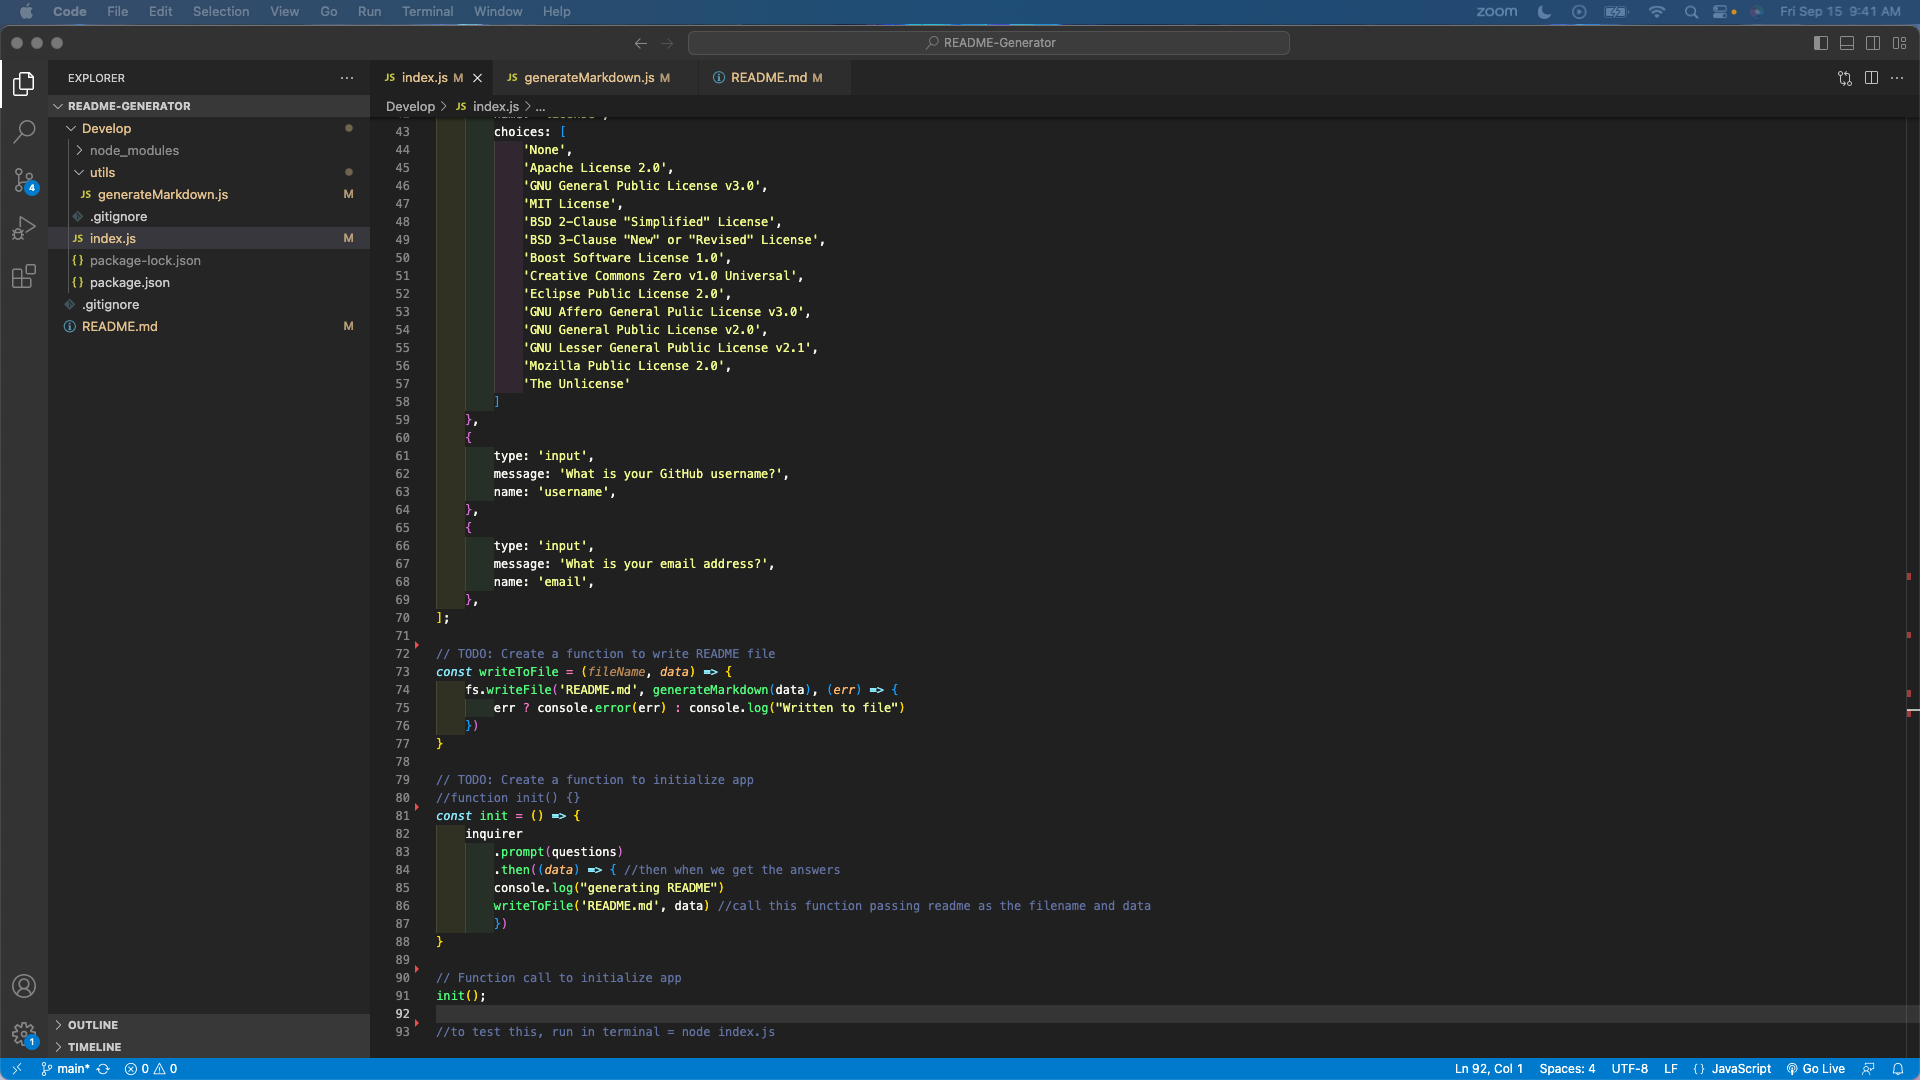
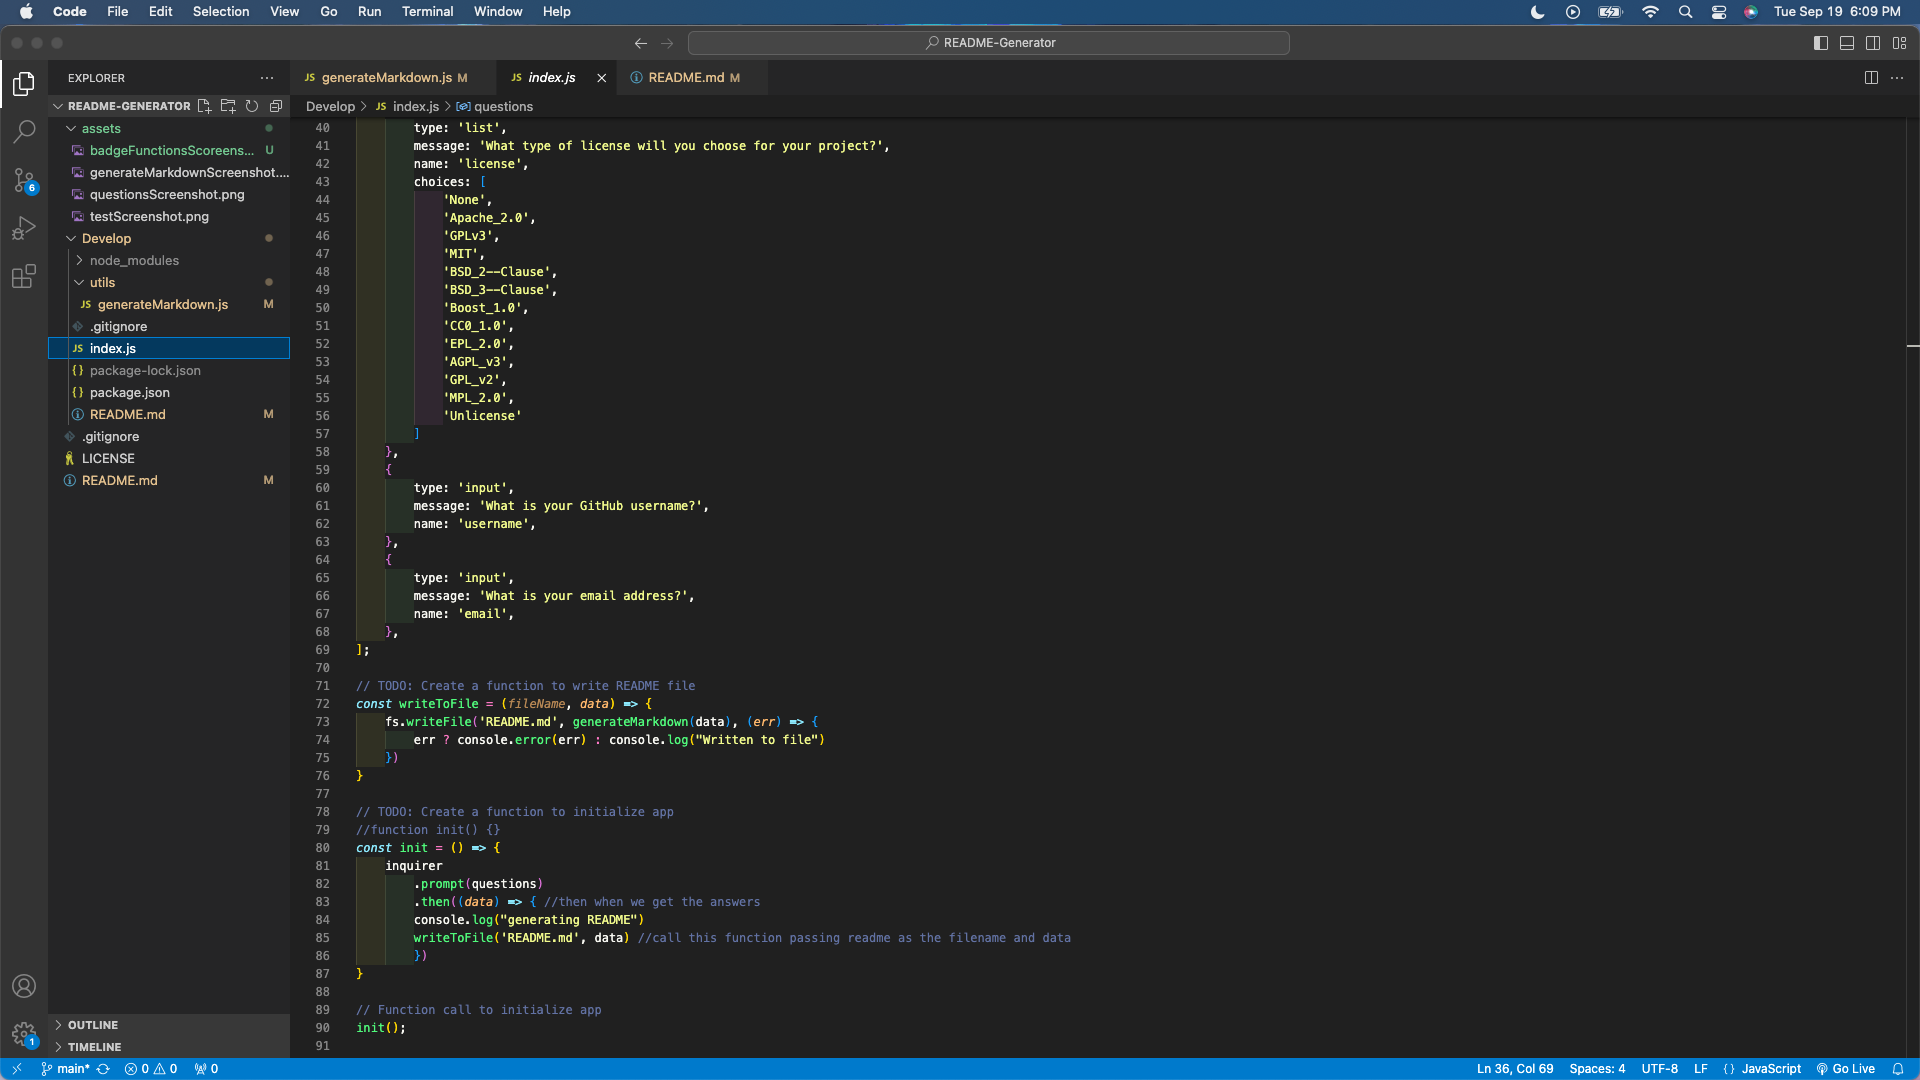
updated screenshots, fixed linking in readme file

diff --git a/Develop/utils/generateMarkdown.js b/Develop/utils/generateMarkdown.js
@@ -12,7 +12,7 @@ function renderLicenseBadge(license) {
 // If there is no license, return an empty string
 function renderLicenseLink(license) {
   if (license !== 'None') {
-    return `[License](##License)`
+    return `[License](#license)`
   }
 
   return "";
@@ -24,7 +24,7 @@ function renderLicenseLink(license) {
 // If there is no license, return an empty string
 function renderLicenseSection(license) {
   if (license !== 'None') {
-    return `##License
+    return `## License
     This project is under the ${license} license`
   }
 
@@ -39,34 +39,34 @@ function generateMarkdown(data) {
   ${renderLicenseBadge(data.license)}
 
 
-  ##Table of Contents
-  - [Description](##Description)
-  - [Installation](##Installation)
-  - [Usage](##Usage)
+  ## Table of Contents
+  - [Description](#description)
+  - [Installation](#installation)
+  - [Usage](#usage)
   - ${renderLicenseLink(data.license)}
 
-  - [Contribution](##Contribution)
-  - [Tests](##Tests)
-  - [Questions](##Questions)
+  - [Contribution](#contribution)
+  - [Tests](#tests)
+  - [Questions](#questions)
 
-  ##Description
+  ## Description
   ${data.description}
 
-  ##Installation
+  ## Installation
   ${data.installation}
 
-  ##Usage
+  ## Usage
   ${data.usage}
 
   ${renderLicenseSection(data.license)}
   
-  ##Contribution
+  ## Contribution
   ${data.contribution}
   
-  ##Tests
+  ## Tests
   ${data.test}
   
-  ##Questions
+  ## Questions
   The link to my Github Profile here: https://github.com/${data.username}.
   For any additional questions, please reach me at: ${data.email}.
 `

diff --git a/README.md b/README.md
@@ -1,23 +1,23 @@
   # README-Generator
   ![GitHub license](https://img.shields.io/badge/license-MIT-blue.svg)
 
-  ##Table of Contents
-  - [Description](##Description)
-  - [Installation](##Installation)
-  - [Usage](##Usage)
-  - [License](##License)
-  - [Contribution](##Contribution)
-  - [Tests](##Tests)
-  - [Questions](##Questions)
+  ## Table of Contents
+  - [Description](#description)
+  - [Installation](#installation)
+  - [Usage](#usage)
+  - [License](#license)
+  - [Contribution](#contribution)
+  - [Tests](#tests)
+  - [Questions](#questions)
 
-  ##Description
+  ## Description
   The purpose of creating a README-Generator through the command line in the terminal is to make the process of creating a README for repos more efficient. Upon opening the terminal, users answer a series of questions, and once complete, the README document will be dynamically created along with the responses appended to it, placed in their appropriate sections.
   View a video of the README-Generator here: https://drive.google.com/file/d/1cLhhIEgOBvTjl9oB2bdTwXhH5Deb9vbA/view?usp=sharing.
 
-  ##Installation
+  ## Installation
   VS Code for JavaScript. GibHub for version control and for this repo. The npm inquirer@8.2.4 also needs to be installed. The link can be found here: https://www.npmjs.com/package/inquirer/v/8.2.4.
 
-  ##Usage
+  ## Usage
   This can be used when users need to create a README for GitHub repos.
 
   View a screenshot of the functions for the npm in VS Code:
@@ -29,10 +29,10 @@
   View a screenshot of the questions array here in VS Code:
   ![Screenshot of README questions array](assets/questionsScreenshot.png)
 
-  ##License
+  ## License
   This project is under the MIT license
   
-  ##Contribution
+  ## Contribution
   The starter JavaScript files are credited to the content in the starter-code repository, found here: https://github.com/coding-boot-camp/potential-enigma.
   The coding (variables, questions array, importing packages, conditional statements, console logs, writeToFile and init functions) -all the additions- are credited to the curriculum taught in the UCI coding boot camp and are credited to the instructor, the tutor, and classmates in the UCI coding boot camp.
   Information to download the inquirer package and on how to structure the prompt can be found here: https://www.npmjs.com/package/inquirer/v/8.2.4.
@@ -43,11 +43,11 @@
   https://gist.github.com/lukas-h/2a5d00690736b4c3a7ba
   To record the README generator, the instructions can be found here: https://coding-boot-camp.github.io/full-stack/computer-literacy/video-submission-guide.
 
-  ##Tests
+  ## Tests
   To test this README generator, make sure that the appropriate installations have been completed. Users can then clone this repo, navigate to the terminal of this directory, and test typing "node index" in the terminal command line. Answer the series of questions with "test" and select a license at random. Upon answering all questions, a new README file will be created in your VS code of the repo, or, if you have an existing README file, what the user inputted will overwrite what was on the README file previously. Please see a screenshot of an example below:
   ![Screenshot of test](assets/testScreenshot.png)
 
 
-  ##Questions
+  ## Questions
   The link to my Github Profile here: https://github.com/codeandlift706.
   For any additional questions, please reach me at: channguyen715@gmail.com.

diff --git a/Develop/README.md b/Develop/README.md
@@ -3,34 +3,34 @@
   ![GitHub license](https://img.shields.io/badge/license-Apache_2.0-blue.svg)
 
 
-  ##Table of Contents
-  - [Description](##Description)
-  - [Installation](##Installation)
-  - [Usage](##Usage)
-  - [License](##License)
+  ## Table of Contents
+  - [Description](#description)
+  - [Installation](#installation)
+  - [Usage](#usage)
+  - [License](#license)
 
-  - [Contribution](##Contribution)
-  - [Tests](##Tests)
-  - [Questions](##Questions)
+  - [Contribution](#contribution)
+  - [Tests](#tests)
+  - [Questions](#questions)
 
-  ##Description
+  ## Description
   test
 
-  ##Installation
+  ## Installation
   test
 
-  ##Usage
+  ## Usage
   test
 
-  ##License
+  ## License
     This project is under the Apache_2.0 license
   
-  ##Contribution
+  ## Contribution
   test
   
-  ##Tests
+  ## Tests
   test
   
-  ##Questions
+  ## Questions
   The link to my Github Profile here: https://github.com/test.
   For any additional questions, please reach me at: test.
